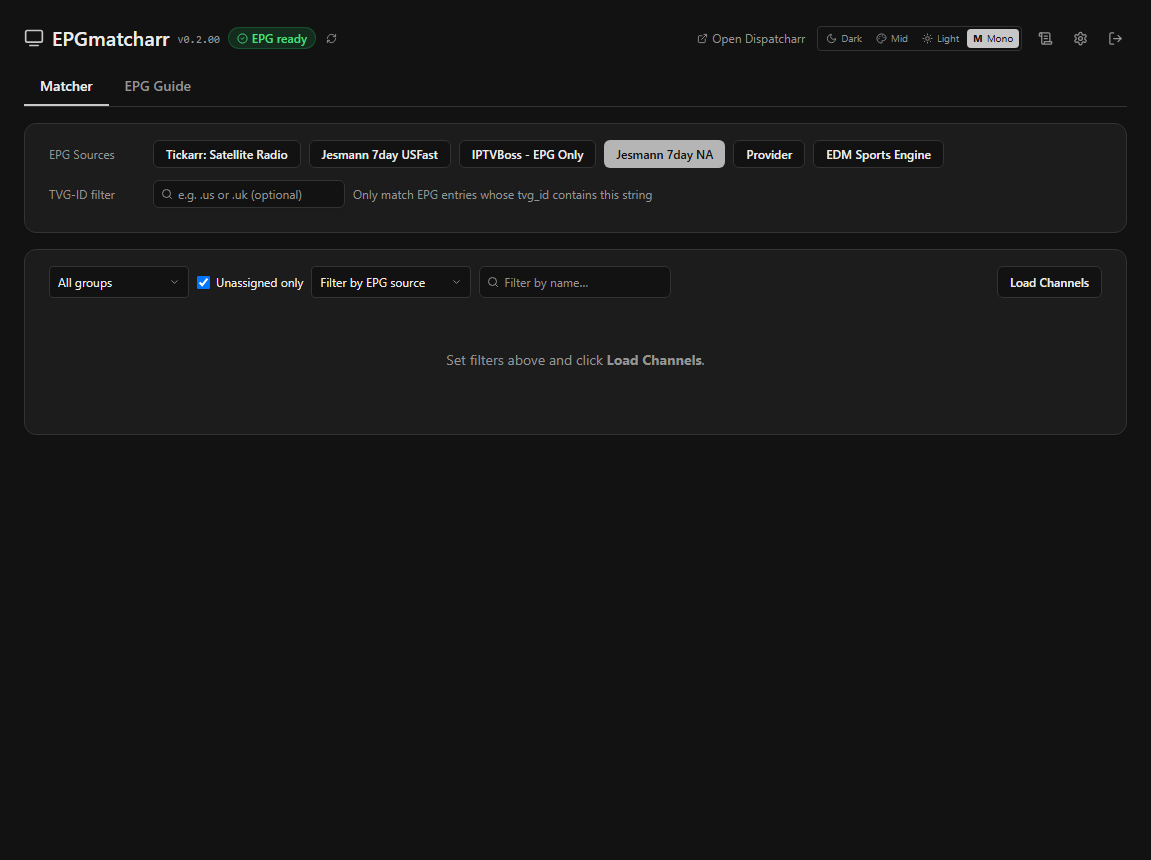
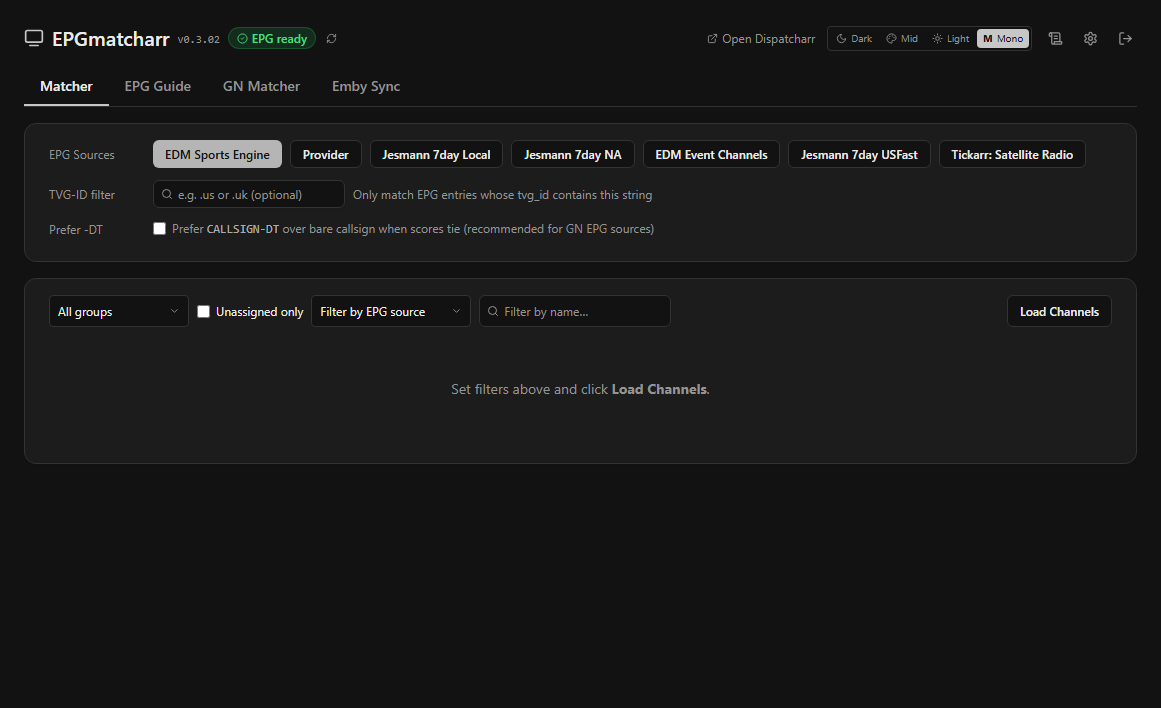
docs: add GN Matcher and Emby Sync screenshots to USERGUIDE
- New screenshots for §8 GN Station Matcher (setup, results, candidate
  picker, commit) and §12 Emby Guide Sync (settings, preview, manual
  picker, excluded groups, push) -- both sections previously had none
- Refreshed ug-05-settings.png and ug-11-source-selected.png to reflect
  current UI (GN Station DB/Emby cards, priority-ordered source buttons)

diff --git a/docs/USERGUIDE.md b/docs/USERGUIDE.md
@@ -300,6 +300,8 @@ Before running a match, configure the options in the setup card at the top of th
 
 Click **Run Match** to score all channels.
 
+![GN Matcher setup card](screenshots/ug-gn-01-setup.png)
+
 ### Match Results
 
 Each channel row shows:
@@ -311,11 +313,15 @@ Each channel row shows:
 
 High-confidence matches are auto-checked. Medium and Low matches are unchecked — review them before committing.
 
+![Match results with score bars and confidence badges](screenshots/ug-gn-02-results.png)
+
 ### Overriding a Match
 
 Click the **search icon** (🔍) on any row to open the candidate picker. It shows all scored candidates for that channel plus a search box for manual lookup. Selecting a candidate from the list overrides the automatic choice.
 
 The picker automatically flips upward when the row is near the bottom of the screen.
+
+![Candidate search picker with real search results](screenshots/ug-gn-03-picker.png)
 
 ### Clearing a Bad Mapping
 
@@ -324,6 +330,8 @@ If a channel already has a GN station ID assigned (**Has GN** badge) but the ass
 ### Committing
 
 Click **Commit N assignments** to write all checked GN station IDs to Dispatcharr in one batch. The count reflects the number of channels currently checked.
+
+![Commit button enabled with a High-confidence match selected](screenshots/ug-gn-04-commit.png)
 
 After committing, matched channels show the **Has GN** badge on the next match run.
 
@@ -419,6 +427,8 @@ In **Settings**, scroll to the **Emby Guide (embygn)** card:
 
 Click **Test Connection** to verify Emby is reachable, then **Save**.
 
+![Emby Guide (embygn) settings card](screenshots/ug-emby-01-settings.png)
+
 ### Preview Coverage
 
 Open the **Emby Sync** tab and click **Preview Coverage**. This is fully reversible — nothing is changed on your Emby server. EPGmatcharr will:
@@ -441,6 +451,8 @@ Below the summary, the **markets detected** line shows how many ZIP codes were u
 
 Each channel row in the detail lists also shows its Dispatcharr channel group next to its name, and (where relevant) its current Emby mapping alongside what it would change to — useful when two unrelated channels share a name (e.g. a SiriusXM audio channel and a real TV channel both called "CNN").
 
+![Preview Coverage results: summary cards, markets detected, and detail lists](screenshots/ug-emby-03-preview.png)
+
 ### Don't Touch Existing Mappings
 
 The **"Don't touch channels that already have a different mapping in Emby"** checkbox, above the Preview button, changes what both Preview and Push do with channels that already have *some* mapping in Emby that doesn't match what EPGmatcharr would set. When checked, those channels are left exactly as they are — neither the initial push nor Emby Sync's later correction pass will touch them. Use this if some channels are intentionally mapped by hand, or by Emby's own auto-match, and shouldn't be managed by EPGmatcharr.
@@ -456,11 +468,15 @@ For a channel the automatic flow can't resolve — or gets wrong — you don't h
 
 Both apply immediately to Emby, independent of the Push button, and the lists refresh automatically afterward.
 
+![Manual map picker with real search results](screenshots/ug-emby-04-picker.png)
+
 ### Excluded Channel Groups
 
 The **Excluded channel groups** panel (below the checkbox) lets you permanently exclude specific Dispatcharr channel groups from Emby Sync entirely — those channels are never pushed to Emby, even if they have a correct GN station ID, and Emby Sync never clears any mapping on them either. This is separate from GN Matcher's own group filter (§8), which only affects a single match run; this setting is saved and applies to every future Preview and Push.
 
 Use this for groups like SiriusXM, where a channel's name can coincidentally collide with a real TV channel's name and would otherwise be pushed as if it were that channel.
+
+![Excluded channel groups panel](screenshots/ug-emby-02-excluded.png)
 
 ### Pushing
 
@@ -474,6 +490,8 @@ Click **Push N Mappings to Emby** to apply. EPGmatcharr will:
 - Clear cached channel artwork for anything that changed, and trigger Emby's **Refresh Guide** task so the new mappings and images take effect.
 
 Push is safe to re-run — it's idempotent and will only change what's actually wrong or out of date.
+
+![Push result confirmation](screenshots/ug-emby-05-push.png)
 
 ### Troubleshooting
 